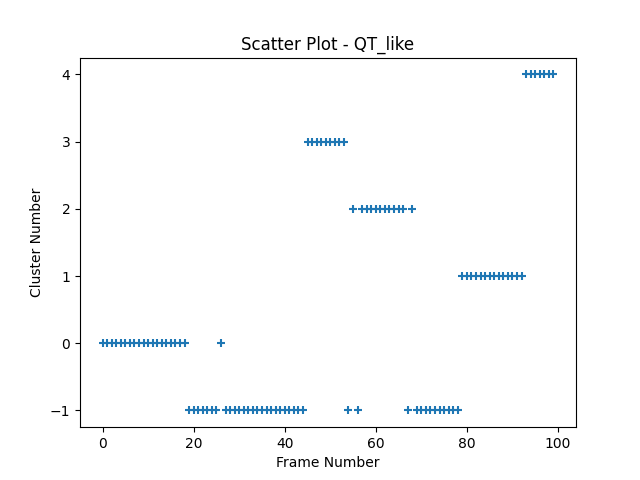
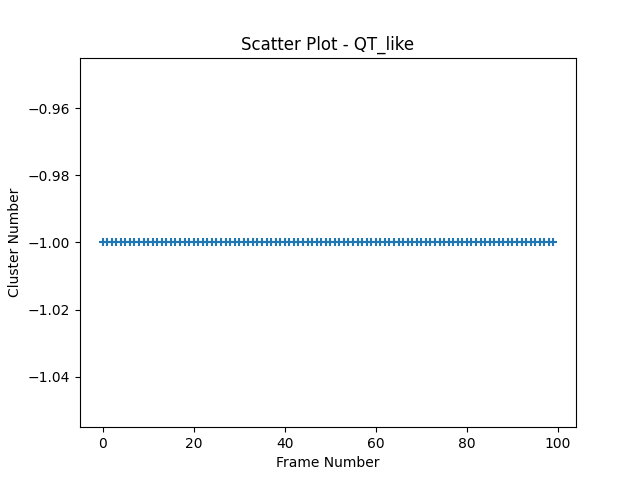
Double Scatter plot, need to fix implemnation though.

diff --git a/src/postprocessing.py b/src/postprocessing.py
@@ -4,8 +4,16 @@ import matplotlib.pyplot as plot
 import scipy.cluster.hierarchy
 
 
-def scatterplot(clusters_arr, no_frames, qt_type):
-        #Figures
+def scatterplot_single(clusters_arr, no_frames, qt_type):
+        '''
+        DESCRIPTION
+        Produce cluster scatter plot of frames
+
+        Arguments:
+            clusters_arr (numpy.ndarray): cluster indexes per frame.
+            no_frames (int): number of frames
+            qt_type (str): qt types of implementation.
+        '''
         plot.figure()
         plot.scatter(numpy.arange(no_frames), clusters_arr, marker = '+')
         plot.xlabel("Frame Number")
@@ -16,7 +24,39 @@ def scatterplot(clusters_arr, no_frames, qt_type):
         plot.savefig("Scatterplot_%s.png" %qt_type)
         plot.close()
 
+def scatterplot_multiple(clusters_arr1, cluster_arr2, no_frames):
+        '''
+        DESCRIPTION
+        Produce cluster scatter plot of frames
+
+        Arguments:
+            clusters_arr1 (numpy.ndarray): cluster indexes per frame.
+            clusters_arr2 (numpy.ndarray): cluster indexes per frame.
+            no_frames (int): number of frames
+            qt_type1 (str): qt types of implementation.
+            qt_type2 (str): qt types of implementation.
+        '''
+        plot.figure()
+        print(cluster_arr2)
+        plot.scatter(numpy.arange(no_frames), clusters_arr1, marker = '+', color='blue')
+        plot.scatter(numpy.arange(no_frames), cluster_arr2, marker = '+', color='red')
+        plot.xlabel("Frame Number")
+        plot.ylabel("Cluster Number")
+        plot.title("Scatter Plot - qt_orginal and qt_like")
+        os.chdir(os.path.join(os.path.dirname(__file__), '..')+ "/data/data_dest/")
+        #print(os.getcwd())
+        plot.savefig("Scatterplot_comparison.png")
+        plot.close()
+
 def saveClusters(clusters_arr, qt_type):
+    '''
+    DESCRIPTION
+    Save cluster indexes to text file
+
+    Arguments:
+        clusters_arr (numpy.ndarray): Cluster indexes per frame.
+        qt_type (str): qt types of implementation.
+    '''
     os.chdir(os.path.join(os.path.dirname(__file__), '..')+ "/data/data_dest/")
     numpy.savetxt("Clusters_%s.txt" %qt_type, clusters_arr, fmt='%i')
 
@@ -26,7 +66,7 @@ def show_dendrogram(hierarchical_type, linkage):
     Popup Dendrogram produced by hierarchical clustering.
 
     Arguments:
-        hierarchical_type (str): string for hierarchical type .
+        hierarchical_type (str): string for hierarchical type.
         linkage (numpy.ndarray): linkage matrix from clustering.
     '''
     plot.title('RMSD %s linkage hierarchical clustering' %hierarchical_type)
@@ -43,7 +83,7 @@ def save_dendrogram(hierarchical_type, linkage, destination):
         hierarchical_type (str): string for hierarchical type.
         destination (str): string for file location within data_dest folder
     '''
-    os.chdir(os.path.join(os.path.dirname(__file__))+ "data/data_dest/")  # changes cwd to always be at clustermol
+    os.chdir(os.path.join(os.path.dirname(__file__), "..")+ "/data/data_dest/")  # changes cwd to always be at clustermol
     plot.title('RMSD %s linkage hierarchical clustering' %hierarchical_type)
     _ = scipy.cluster.hierarchy.dendrogram(linkage, no_labels=True)
     plot.savefig("dendrogram-clustering-%s.png" % hierarchical_type)

diff --git a/src/qt.py b/src/qt.py
@@ -66,8 +66,9 @@ def qt_orginal(rmsd_matrix, cutoff, minimum_membership):
         degrees = (rmsd_matrix < numpy.inf).sum(axis=0)
         if (degrees == 0).all():
             break
-    postprocessing.scatterplot(cluster_labels, n_frames, "QT_original")
+    postprocessing.scatterplot_single(cluster_labels, n_frames, "QT_original")
     postprocessing.saveClusters(cluster_labels, "QT_original")
+    return cluster_labels
 
 def qt_like(rmsd_matrix, cutoff, minimum_membership):
     n_frames = len(rmsd_matrix)  # Number of frames from Trajectory
@@ -81,28 +82,37 @@ def qt_like(rmsd_matrix, cutoff, minimum_membership):
     while rmsd_matrix.any():
         membership = rmsd_matrix.sum(axis=1)
         center = numpy.argmax(membership)
-        members = numpy.where(rmsd_matrix[center,:]==True)
+        members = numpy.where(rmsd_matrix[center, :]==True)
         if max(membership) <= minimum_membership:
             cluster_labels[numpy.where(numpy.isnan(cluster_labels))] = -1
             break
         cluster_labels[members] = cluster_index
         centers.append(center)
-        rmsd_matrix[members,:] = False
-        rmsd_matrix[:,members] = False
+        rmsd_matrix[members, :] = False
+        rmsd_matrix[:, members] = False
         cluster_index = cluster_index + 1
-    postprocessing.scatterplot(cluster_labels, n_frames, "QT_like")
+    postprocessing.scatterplot_single(cluster_labels, n_frames, "QT_like")
     postprocessing.saveClusters(cluster_labels, "QT_like")
+    return cluster_labels
 
 def runQT(filename, destination, type):
     traj = preprocessing.preprocessing_file(filename)
-    rmsd_matrix_temp = preprocessing.preprocessing_qt(traj) # Need to write general pre-process.
+    rmsd_matrix_temp = preprocessing.preprocessing_qt(traj)  # Need to write general pre-process.
     if type == "qt_original":
         qt_orginal(rmsd_matrix_temp, 0.25, 5)
     elif type == "qt_like":
         qt_like(rmsd_matrix_temp, 0.25, 5)
     else:
-        pass
+        print(rmsd_matrix_temp)
+        lb1 = qt_orginal(rmsd_matrix_temp, 0.25, 5)
+        print(rmsd_matrix_temp)
+        lb2 = qt_like(rmsd_matrix_temp, 0.25, 5)
+        print(rmsd_matrix_temp)
+        postprocessing.scatterplot_multiple(lb1, lb2, len(rmsd_matrix_temp))
 
 if __name__ == "__main__":
-    runQT("MenY_reduced_100_frames.pdb", "data_dest", "qt_original")
-    runQT("MenY_reduced_100_frames.pdb", "data_dest", "qt_like")
+
+
+    # runQT("MenY_reduced_100_frames.pdb", "data_dest",both "qt_original")
+    # runQT("MenY_reduced_100_frames.pdb", "data_dest", "qt_like")
+    runQT("MenY_reduced_100_frames.pdb", "data_dest", "")
